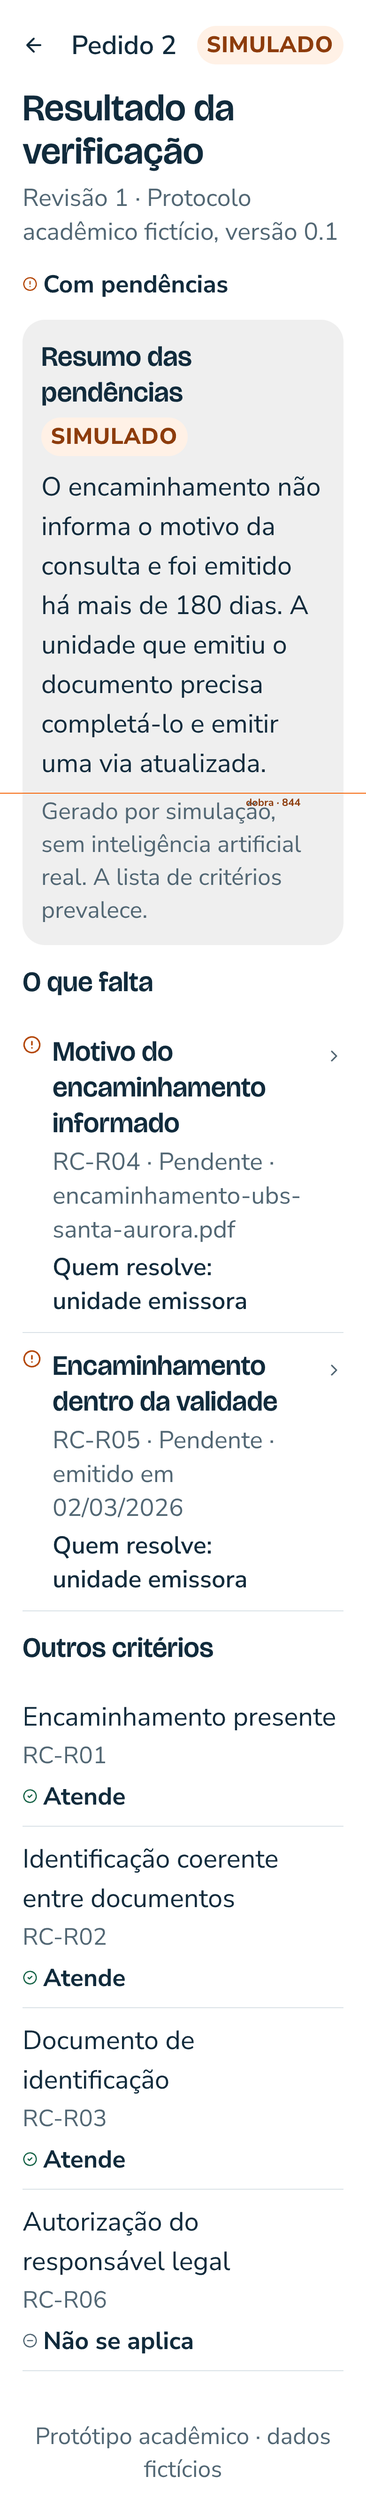
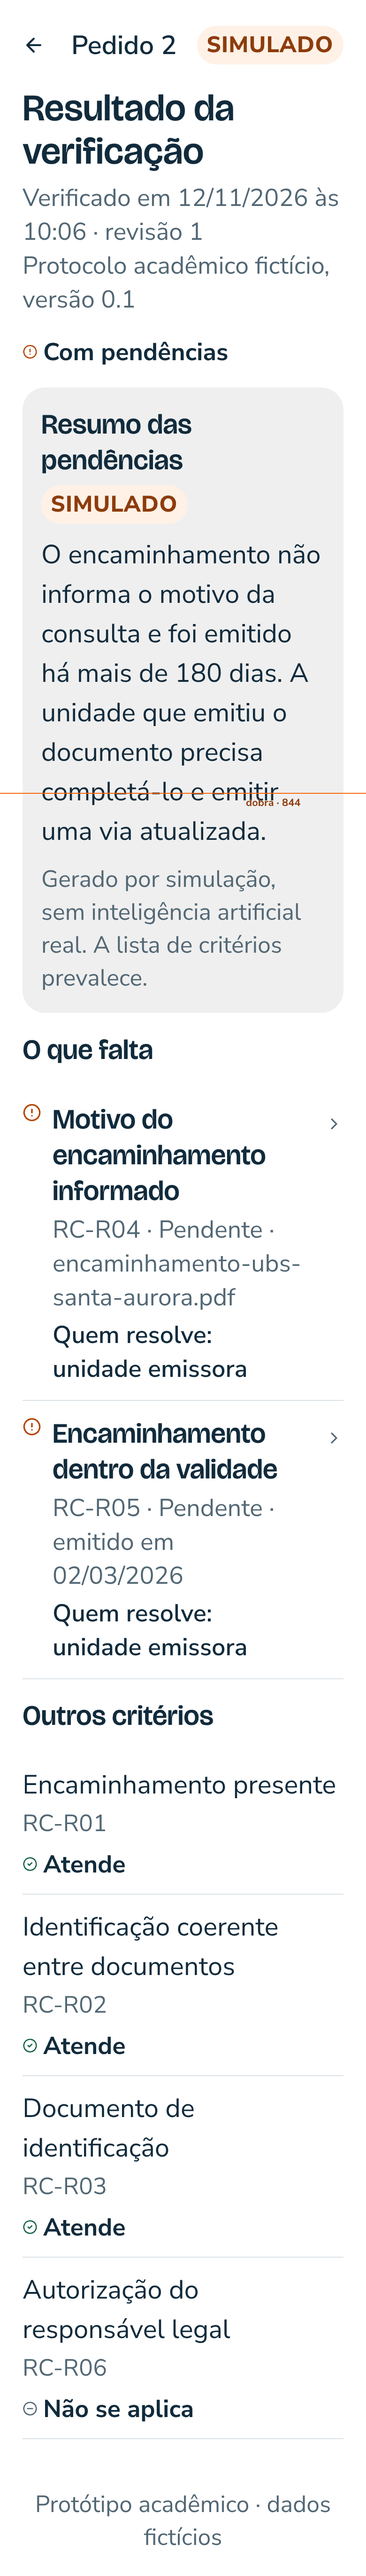
docs(design): align canvas with RC-13 and show verification date (spec 015, T073-T074)
T073
- Relabel the reading card to FEATURE 015
- Drop the dagger from notes and row cards that depend only on RC-13;
  keep it for RC-14 (summary), RC-16 (comparison), RC-17, RC-20, RC-21/22
- Describe the synchronous analysis on E3.8: 201/200 go to E3.3,
  409 ANALISE_EM_ANDAMENTO to E1.3 Em verificacao, 503 to E1.3 Falha
- Update the journey map (step 4) and mark comparison as dagger in INDEX

T074
- Show "Verificado em {data e hora}" (executadaEm) under the result title
  on 7 frames (E3.3, E3.5 and the enlarged-font copy); E3.3 Falha has no date
- Update FR-042, textos.md and dados-ficticios.md
- Realign notes and keep the 140 gap between canvas rows (0 overlaps)
- Re-export and losslessly recompress the 8 affected previews

diff --git a/specs/015-fluxo-telas-app/tasks.md b/specs/015-fluxo-telas-app/tasks.md
@@ -236,7 +236,8 @@ description: "Tarefas de design da feature 015-fluxo-telas-app"
 - [x] T070 Tirar `.specify/feature.json` do versionamento (já listado em `.specify/.gitignore` pelo Spec Kit 1.4.1) e registrar em `docs/decisoes.md` e `docs/ambiente.md`
 - [x] T071 [P] Otimizar sem perdas as prévias PNG de `design/previas/` (17,1 MB → 10,4 MB), conferindo pixel a pixel que nenhuma imagem mudou
 - [x] T072 [P] Atualizar `AGENTS.md` (fase atual) e a linha "Telas do app" de `docs/decisoes.md` (arquivo único `design/RegulaCheck.pen`, 94 quadros, specs 007 e 015)
-- [ ] T073 No pen.dev (só via MCP): trocar o rótulo "FEATURE 014" do cartão "Como avaliar o fluxo" por "FEATURE 015", rever a marca † dos quadros que dependem só da RC-13 e reexportar as prévias afetadas
+- [x] T073 No pen.dev (só via MCP): trocar o rótulo "FEATURE 014" do cartão "Como avaliar o fluxo" por "FEATURE 015", rever a marca † dos quadros que dependem só da RC-13 e reexportar as prévias afetadas
+- [x] T074 Mostrar a data e a hora da verificação (`executadaEm`, RC-13) no apoio do título dos quadros que exibem um resultado gravado (E3.3 com resultado, E3.5 e a versão com fonte ampliada), conforme decisão do responsável; atualizar FR-042, `textos.md`, `dados-ficticios.md`, reexportar as prévias e manter o espaçamento das linhas do canvas
 
 ---
 
@@ -304,7 +305,7 @@ Só os documentos Markdown paralelizam. Se mais de uma pessoa desenhar, dividir 
 
 ## Notes
 
-- Total: 73 tarefas (T062–T065 acrescentadas em 14/11/2026 para organizar o canvas; T066–T067 para a limpeza de arquivos; T068–T073 em 15/11/2026 para a reconciliação com a `main`) · 94 quadros (3 existentes ajustados).
+- Total: 74 tarefas (T062–T065 acrescentadas em 14/11/2026 para organizar o canvas; T066–T067 para a limpeza de arquivos; T068–T073 em 15/11/2026 para a reconciliação com a `main`; T074 para a data da verificação) · 94 quadros (3 existentes ajustados).
 - Nenhum commit, push ou issue sem pedido explícito (constituição, Fluxo de Desenvolvimento).
 - Marcar tarefa como concluída só com evidência (screenshot revisada, consulta de limites, PNG exportado, arquivo salvo).
 - `/speckit-analyze` executado em 13/11/2026; achados F1–F14 corrigidos nesta revisão.
@@ -427,3 +428,25 @@ Só os documentos Markdown paralelizam. Se mais de uma pessoa desenhar, dividir 
 - **T071:** 99 PNGs regravados com compressão máxima sem perdas (Pillow, `optimize=True`, perfil de cor preservado). Para cada arquivo foram comparados modo, tamanho e bytes de pixel antes de gravar; 0 diferenças, 0 arquivos ignorados.
 - **T072:** `AGENTS.md` dizia "não criar outra feature" e citava componentes `Atual/*`; passou a descrever o design system v1.0, os 94 quadros e a feature 015.
 - **Não verificado / pendente:** T073 depende do pen.dev com o MCP do pencil, que não estava disponível nesta sessão; T060 continua sem execução.
+
+### 15/11/2026 — T073 no pen.dev
+
+- Pull `f6b8c09` (avanço direto) e `.specify/feature.json` recriado à mão com `specs/015-fluxo-telas-app`; `check-prerequisites.ps1` encontra a feature.
+- Rótulo do cartão "Como avaliar o fluxo" (`kRtQf`): "FEATURE 014" → "FEATURE 015".
+- 24 textos alterados no canvas (o rótulo, 17 notas e 6 linhas de cartão); nenhum quadro de tela tinha †, então nenhum quadro mudou por dentro:
+  - Notas que perderam o † da RC-13 (`GET`/`POST …/analises` ✅): E1.3 Em verificação, Confira a leitura, Com pendências, Sem pendências, Falha, Resultado não vigente e Simulação concluída; E3.3 (4; Resumo indisponível é só RC-14 e segue com †); E3.4 (4); E3.8; E3.5 Comparação. A menção "contrato provisório" ficou só com as histórias que faltam (RC-15, RC-16, RC-17).
+  - † mantido onde a rota ainda não existe: resumo (RC-14), comparação (RC-16), submissão (RC-17), indicadores (RC-20) e sensores (RC-21/22).
+  - Cartões de linha 03, 12, 13, 14 e 15: linha "Operação" sem o † da RC-13; a linha 15 passou a marcar "comparação †".
+- Caminho do E3.8 corrigido para a análise síncrona: nota (201/200 → E3.3; 409 `ANALISE_EM_ANDAMENTO` → E1.3 Em verificação; 503 → E1.3 Falha; botão bloqueado durante a chamada) e cartão da linha 12 ("Vai para: E3.3 Resultado (ou E1.3, se a verificação não terminar)"). Notas de E1.3 Em verificação e Falha dizem de onde vêm. `mapa-de-percursos.md` (passo 4) acompanhou.
+- Nota de E3.3 Com pendências: "sem data da verificação (campo ausente no contrato)" deixou de valer, porque o contrato da RC-13 agora traz o campo; o responsável decidiu mostrar a data (T074).
+- `INDEX.md`: linha E3.5 Comparação com "comparação † (RC-16)", como no contrato.
+- Verificação: 222 nós de topo, 0 sobreposições; 0 problemas de limite nos cartões alterados e no cartão de leitura; screenshot do cartão da linha 12; documento salvo pelo MCP. Única prévia afetada: `design/previas/io4cw.png`, reexportada e comprimida sem perdas (598 KB → 413 KB, pixels iguais).
+- Não verificado: T060.
+
+### 15/11/2026 — T074 data da verificação
+
+- Decisão do responsável: mostrar quando a verificação foi feita, já que a RC-13 publica `executadaEm`. FR-042 atualizado.
+- No apoio do título ("Resultado da verificação"), em duas linhas: "Verificado em {data e hora} · revisão {n}" / "Protocolo acadêmico fictício, versão 0.1". Sem componente novo.
+- Quadros: E3.3 Com pendências (`L5Keg`), Confira a leitura (`zMx9T`), Sem pendências identificadas (`cAl1Z`), Resumo indisponível (`udibQ`); E3.5 Resultado não vigente (`LGYSw`, com a data do resultado antigo e "Os documentos mudaram na revisão 2") e Comparação (`vwCYD`); fonte ampliada de E3.3 (`VJC8f`). E3.3 Falha (`EAe9t`) fica sem data: a falha não grava análise.
+- Datas coerentes com a carga e os outros quadros: Pedido 2 — 12/11/2026 às 10:06; Pedido 7 — 13/11/2026 às 10:25; Pedido 1, revisão 2 — 12/11/2026 às 11:30 (registradas em `dados-ficticios.md`).
+- Verificação: 0 problemas de limite nos 7 quadros; screenshots do apoio no tamanho normal e na fonte ampliada (quebra só entre palavras); notas recolocadas 20 abaixo de cada quadro; linhas 14 a 21 descidas 20 (e 40 depois da linha 15) para manter o espaço de 140 entre linhas; 0 sobreposições entre os 222 nós de topo. 7 prévias reexportadas e comprimidas sem perdas, com pixels conferidos. Documento salvo pelo MCP.

diff --git a/mobile/design/textos.md b/mobile/design/textos.md
@@ -163,7 +163,7 @@ Título: "Verificar critérios?" Textos (conforme o caso): "{n} informações li
 ### E3.3 Resultado da verificação
 | Estado | Textos |
 |---|---|
-| Com pendências | Estado "Com pendências". "Revisão {n}" · "Protocolo acadêmico fictício · versão {versão}". Resumo (SIMULADO): texto de `dados-ficticios.md`. "O que falta": "{critério}" · "Pendente" ou "Não verificável" · "Quem resolve: você" ou "Quem resolve: unidade emissora". "Outros critérios": "{critério}" · "Atende" ou "Não se aplica". |
+| Com pendências | Estado "Com pendências". Apoio do título em duas linhas: "Verificado em {data e hora} · revisão {n}" / "Protocolo acadêmico fictício, versão {versão}" (data de `executadaEm`; vale para todos os estados com resultado, não para Falha). Resumo (SIMULADO): texto de `dados-ficticios.md`. "O que falta": "{critério}" · "Pendente" ou "Não verificável" · "Quem resolve: você" ou "Quem resolve: unidade emissora". "Outros critérios": "{critério}" · "Atende" ou "Não se aplica". |
 | Confira a leitura | "Alguma informação não pôde ser verificada. Isso não significa que ela esteja faltando." Lista "O que falta" com os critérios não verificáveis. |
 | Sem pendências identificadas | "Isso não é aprovação do SUS. Os critérios são demonstrativos." Botão: "Concluir simulação". |
 | Falha | "A verificação não pôde ser feita." / "Nenhuma conclusão foi tirada." Botão: "Tentar de novo". |
@@ -181,8 +181,8 @@ Título: "Verificar critérios?" Textos (conforme o caso): "{n} informações li
 ### E3.5 Correção e comparação
 | Estado | Textos |
 |---|---|
-| Resultado não vigente | `Aviso/Resultado não vigente` no topo; pendências marcadas "Resultado anterior". Botão: "Ler documentos de novo". |
-| Comparação | Seção: "Em relação à verificação anterior". Valores: "Resolvida", "Continua", "Nova" (texto + ícone). Antes do novo resultado, nada aparece como resolvido. |
+| Resultado não vigente | Apoio do título: "Verificado em {data e hora} · revisão {n}" / "Os documentos mudaram na revisão {n atual}". `Aviso/Resultado não vigente` no topo; pendências marcadas "Resultado anterior". Botão: "Ler documentos de novo". |
+| Comparação | Apoio do título como em E3.3, com a data do novo resultado. Seção: "Em relação à verificação anterior". Valores: "Resolvida", "Continua", "Nova" (texto + ícone). Antes do novo resultado, nada aparece como resolvido. |
 
 ### E3.7 Concluir simulação (diálogo)
 Título: "Concluir a simulação?" / "Nada será enviado ao SUS. Depois disso, o pedido só poderá ser consultado." Botões: "Concluir simulação" (principal), "Voltar".

diff --git a/design/verificacao-2026-11-13.md b/design/verificacao-2026-11-13.md
@@ -177,3 +177,9 @@ Escopo: ajustes do design system e dos exemplos antes de desenhar as histórias 
 - Feature renumerada de 014 para 015 (a RC-13 publicou `specs/014-persistir-analises-historico`); referências conferidas: 0 links relativos quebrados nos Markdown alterados pelo PR.
 - Contrato das telas conferido com o contrato publicado da RC-13 (detalhes em `specs/015-fluxo-telas-app/tasks.md`, T069). O `.pen` não foi aberto: o rótulo "FEATURE 014" no canvas e a marca † dos quadros da RC-13 ficam para a T073.
 - Prévias PNG otimizadas sem perdas (17,1 MB → 10,4 MB), com comparação de pixels arquivo a arquivo.
+
+## Feature 015 — T073 no pen.dev, 15/11/2026
+
+- Rótulo "FEATURE 015" no cartão de leitura; 24 textos alterados (o rótulo, 17 notas e 6 linhas de cartão), com o † da RC-13 retirado, mantido para RC-14, RC-16, RC-17, RC-20 e RC-21/22. Caminho do E3.8 atualizado para a análise síncrona. Detalhes em `specs/015-fluxo-telas-app/tasks.md` (T073).
+- 0 sobreposições entre os 222 nós de topo; 0 problemas de limite nos cartões alterados; quadros de tela inalterados. Prévia `io4cw.png` reexportada e comprimida sem perdas, com pixels conferidos. Documento salvo pelo MCP.
+- T074: data da verificação (`executadaEm`) no apoio do título de 7 quadros de resultado (E3.3, E3.5 e fonte ampliada); E3.3 Falha sem data. 0 problemas de limite, 0 sobreposições, espaço de 140 entre linhas mantido; 7 prévias reexportadas e comprimidas sem perdas.

diff --git a/specs/015-fluxo-telas-app/spec.md b/specs/015-fluxo-telas-app/spec.md
@@ -282,7 +282,7 @@ O administrador entra e vê o protocolo ativo com suas regras e totais agregados
 - **FR-041**: Leitura desatualizada ou pedido concluído: conferência só consulta, com a mensagem correspondente.
 
 **E3.3 Resultado da verificação**
-- **FR-042**: Mostrar resultado geral (ícone + texto), revisão e versão do protocolo avaliadas (e a data da verificação somente se o backend passar a fornecê-la; o contrato atual não tem esse campo); o resumo SIMULADO (ou o texto padrão de indisponibilidade com "Tentar de novo"); a lista de pendências (critério, tipo pendente ou não verificável, responsável); e os demais critérios com resultado atende ou não se aplica.
+- **FR-042**: Mostrar resultado geral (ícone + texto), revisão e versão do protocolo avaliadas, com a data e a hora da verificação (`executadaEm`, publicado pela RC-13; incluído em 15/11/2026); o resumo SIMULADO (ou o texto padrão de indisponibilidade com "Tentar de novo"); a lista de pendências (critério, tipo pendente ou não verificável, responsável); e os demais critérios com resultado atende ou não se aplica.
 - **FR-043**: Em "Sem pendências identificadas", mostrar que não é aprovação do SUS e que os critérios são demonstrativos; ação principal "Concluir simulação". Em falha, "Tentar de novo". A verificação em andamento é mostrada no pedido (E1.3), não no resultado.
 
 **E3.4 Detalhe da pendência**

diff --git a/mobile/design/mapa-de-percursos.md b/mobile/design/mapa-de-percursos.md
@@ -30,7 +30,7 @@
 1. **E1.2** → "Novo pedido" → **E2.1** → "Criar rascunho" → **E2.2** do Pedido 5.
 2. **E2.2** → "Anexar documento" → **E2.7** tipo → origem ("Fotografar" passa por **E4.1**) → linha "Enviando…" → "Enviado"; recusa → **E2.3**.
 3. **E2.2** → "Ler documentos" → **E3.1** (SIMULADO) → **E3.2** Conferência, um documento por vez → "Concluir conferência" → **E1.3**.
-4. **E1.3** → "Verificar critérios" → **E3.8** → **E1.3** Em verificação → **E3.3** Resultado.
+4. **E1.3** → "Verificar critérios" → **E3.8** → **E3.3** Resultado. A verificação responde só no fim, já com o resultado; enquanto isso o botão fica bloqueado. **E1.3** Em verificação aparece quando outra verificação do pedido está em curso ou o tempo esgota; a falha leva a **E1.3** Falha na verificação.
 5. **E3.3** Com pendências → **E3.4** Detalhe da pendência → "Já tenho uma nova versão" / "Substituir arquivo" (**E2.7** + **E2.4**) → **E3.5** resultado não vigente → "Ler documentos de novo" → **E3.1** → **E3.2** → **E3.8** → **E3.3** com comparação.
 6. **E3.3** Sem pendências identificadas → **E3.7** → **E3.6** Comprovante (`SIM-2026-0001`).
 

diff --git a/design/README.md b/design/README.md
@@ -80,8 +80,7 @@ A pesquisa de referências (Refcat), as capturas de outros aplicativos e as imag
 - Percurso com uma pessoa que não desenhou (T060, SC-003 e SC-004).
 - Aprovação do grupo e protótipo navegável.
 - Fonte ampliada, TalkBack, teclado e insets em aparelho Android.
-- Integração com a API, inclusive as rotas † ainda não implementadas (RC-14, 17, 20, 21 e 22). As da RC-13 já estão na `main` e o contrato das telas foi conferido com elas em 15/11/2026.
-- No `.pen`: trocar o rótulo "FEATURE 014" do cartão "Como avaliar o fluxo" por "FEATURE 015" e rever a marca † ("contrato provisório") dos quadros que dependem da RC-13 (estados de resultado de E1.3, E3.3 e E3.4), mantendo-a só onde ainda há resumo (RC-14) ou comparação (RC-16); depois reexportar as prévias. Só pelo pen.dev (T073).
+- Integração com a API, inclusive as rotas † ainda não implementadas (RC-14 a RC-17, RC-20, RC-21 e RC-22). As da RC-13 já estão na `main`; em 15/11/2026 o contrato das telas e as notas do canvas foram conferidos com elas e perderam o † (T069, T073).
 - Confirmação do grupo sobre a saída do quadro de arquivo `Wo9WQ`.
 
 Detalhes: [verificação](verificacao-2026-11-13.md).

diff --git a/mobile/design/dados-ficticios.md b/mobile/design/dados-ficticios.md
@@ -30,6 +30,8 @@ Nunca desenhar senha, token, chave nem hash. Campos de senha mostram apenas pont
 | 7 | só no design | `REQUER_CONFERENCIA` (R02 e R03 não verificáveis) | 2 | 13/11/2026 às 10:25 | `encaminhamento-cardiologia.pdf`, `documento-identidade-foto.jpg` | confira a leitura, substituir arquivo |
 | 8 | só no design | `FALHA_ANALISE` | 2 | 13/11/2026 às 10:30 | — | falha na verificação |
 
+Data da verificação (`executadaEm`) mostrada no resultado (E3.3 e E3.5): Pedido 2, revisão 1 — 12/11/2026 às 10:06; Pedido 7, revisão 2 — 13/11/2026 às 10:25; Pedido 1, revisão 2 — 12/11/2026 às 11:30 (antes da conclusão às 11:45). O Pedido 8 não tem data, porque a verificação falhou e nada foi gravado.
+
 O Pedido 3 (carga) é de Bruno: para Ana, ele aparece como "Pedido não encontrado", com a mesma resposta de um pedido inexistente.
 
 Lista de Meus pedidos (do mais recente ao mais antigo): Pedido 4 em destaque, Pedido 2 e Pedido 1.

diff --git a/mobile/design/INDEX.md b/mobile/design/INDEX.md
@@ -190,7 +190,7 @@ Regras do design system: [design-system.md](design-system.md). Acessibilidade: [
 | Estado (esquerda → direita) | ID | Operação | Situação |
 |---|---|---|---|
 | E3.5 Correção — Resultado não vigente | [`LGYSw`](../../design/previas/LGYSw.png) | `PUT …/documentos/{docId}`, `POST …/extracoes`; análises | revisado |
-| E3.5 Correção — Comparação | [`vwCYD`](../../design/previas/vwCYD.png) | `PUT …/documentos/{docId}`, `POST …/extracoes`; análises | revisado |
+| E3.5 Correção — Comparação | [`vwCYD`](../../design/previas/vwCYD.png) | `PUT …/documentos/{docId}`, `POST …/extracoes`; análises; comparação † (RC-16) | revisado |
 
 ## Etapa 6 · Concluir a simulação (RC-38)
 
